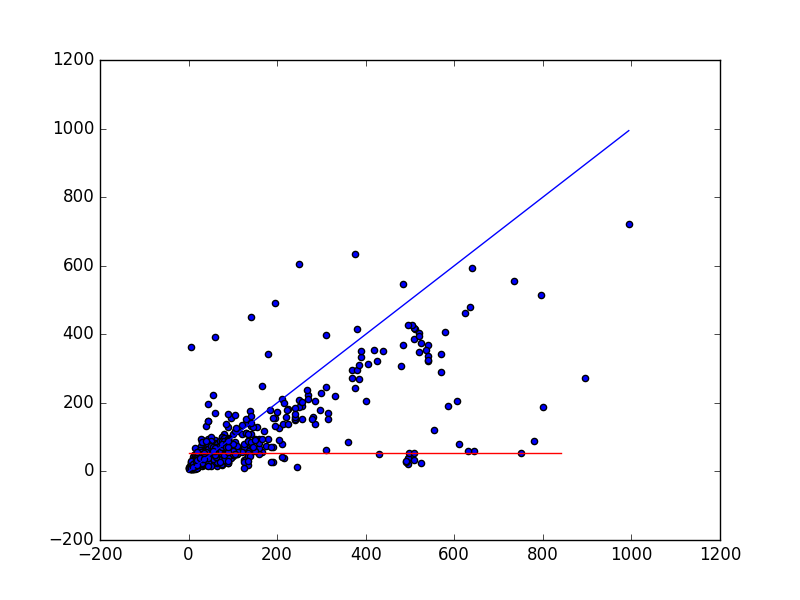
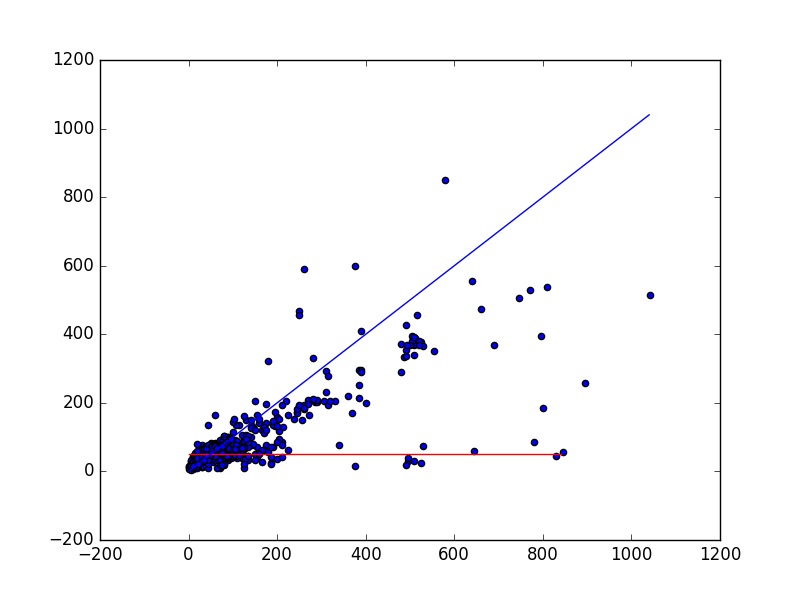
validation and smoothing

diff --git a/model.py b/model.py
@@ -1,5 +1,5 @@
 from sklearn.tree import DecisionTreeRegressor
-from sklearn import svm 
+from sklearn import svm
 from sklearn.neighbors import KNeighborsRegressor
 from sklearn.gaussian_process import GaussianProcessRegressor
 import sys
@@ -15,7 +15,7 @@ import code #DEBUG code.interact(local=locals())
 import math
 
 def get_accuracy(y_test, y_pred):
-	
+
 	diff = np.absolute(np.subtract(y_test, y_pred))
 	percentage = np.divide(diff, y_test)
 
@@ -29,7 +29,7 @@ def get_accuracy(y_test, y_pred):
 
 	return np.average(percentage) * 100
 
-def train_random_forest(train_x, train_y, m, n_clf=10):
+def train_random_forest(train_x, train_y, m, n_clf=1):
 	"""
 	Returns accuracy on the test set test_x with corresponding labels test_y
 	using a random forest classifier with n_clf decision trees trained with
@@ -71,13 +71,14 @@ def test_random_forest(test_x, y_true, forest):
 
 	n_test, d_test = test_x.shape
 	n_clf = len(forest)
+
 	forest_pred = np.zeros((n_clf, n_test))
 
 	for j in range(n_clf):
 		pred = forest[j].predict(test_x)
 		forest_pred[j] = pred
 
-	y_pred = np.average(np.transpose(forest_pred), axis=1)
+	y_pred = np.ceil(np.average(np.transpose(forest_pred), axis=1))
 
 	return get_accuracy(y_true, y_pred)
 
@@ -103,39 +104,57 @@ def main():
 		if times[recipeID] > 24*60: del times[recipeID]
 
 
-	x, y = extract_features.generate_features(imperatives, ingredients, times, num_instructions, num_ingredients, instruction_times)
+	x, y, ids = extract_features.generate_features(imperatives, ingredients, times, num_instructions, num_ingredients, instruction_times)
 	s = np.arange(len(x))
+	np.random.shuffle(s)
 	x = x[s]
 	y = y[s]
+	ids = ids[s]
 
 	m = 200
 	#f_range = (np.arange(10)+1)*5
 	#f_range = np.power((np.arange(10)+1), math.e).astype(int)
-	f = 10
-	c_range = [0.001, 0.01, 0.1, 1, 10, 100, 1000] #C = 100 / 1000
-	n_n_range = [3, 6, 9, 12, 15, 18, 21] 
-	alpha_range = [1e-12, 1e-11, 1e-10, 1e-9, 1e-8]
+	f = 3
+	#c_range = [0.001, 0.01, 0.1, 1, 10, 100, 1000] #C = 100 / 1000
+	#n_n_range = [3, 6, 9, 12, 15, 18, 21]
+	#alpha_range = [1e-12, 1e-11, 1e-10, 1e-9, 1e-8]
 
 	train_split = int(len(x))/10*7
 	train_x, train_y = x[:train_split], y[:train_split]
 	test_x, test_y = x[train_split:], y[train_split:]
+	train_ids, test_ids = ids[train_split:], ids[train_split:]
 	baseline(train_y)
 
 	c = 100
-	forest = train_random_forest(train_x, train_y, c, f)
-	accuracy = test_random_forest(test_x, test_y, forest)
-	print(accuracy)
+	best_forest = []
+	best_accuracy = 0
+
+	k = int(math.ceil(train_split/5.0))
+	train_x_folds = [train_x[1:k], train_x[k:2*k], train_x[2*k:3*k], train_x[3*k:4*k], train_x[4*k:]]
+	train_y_folds = [train_y[1:k], train_y[k:2*k], train_y[2*k:3*k], train_y[3*k:4*k], train_y[4*k:]]
+
+	for fold in range(5):
+		train_x_current = [train_x[0]]
+		train_y_current = [train_y[0]]
+
+		for i in range(5):
+			if fold != i:
+				train_x_current = np.concatenate((train_x_current, train_x_folds[i]))
+				train_y_current = np.concatenate((train_y_current, train_y_folds[i]))
+
+		forest = train_random_forest(train_x_current, train_y_current, c, f)
+		accuracy = test_random_forest(train_x_folds[fold], train_y_folds[fold], forest)
+		print("FOLD # " + str(fold+1) + " " + str(accuracy))
+
+		if accuracy > best_accuracy:
+			best_accuracy = accuracy
+			best_forest = forest
+
+	final_acc = test_random_forest(test_x, test_y, best_forest)
+	print("TEST: " + str(final_acc))
+
 	#print("C = {0}: {1}".format(alpha, np.average(acc)))
 
 
 if __name__ == '__main__':
 	main()
-
-'''
-SVM
-SGD
-NeaNei
-Gauss
-
-Voting
-'''

diff --git a/extract_features.py b/extract_features.py
@@ -3,6 +3,8 @@ import numpy as np
 from sets import Set
 import code #DEBUG code.interact(local=locals())
 
+stop_words = []
+
 def create_feature(ids, parse_tree):
 	'''
 		INPUT:
@@ -12,15 +14,16 @@ def create_feature(ids, parse_tree):
 	unique_items = []
 	for ID in ids:
 		for item in parse_tree[ID].keys():
-			if item not in unique_items:
+			if item not in unique_items && not in stop_words:
 				unique_items.append(item)
 	#print(unique_items)
 
 	fv = np.zeros((len(ids), len(unique_items)))
 	for i, ID in enumerate(ids):
 		for item in parse_tree[ID].keys():
-			j = unique_items.index(item)
-			fv[i][j] = parse_tree[ID][item]
+			if item not in stop_words:
+				j = unique_items.index(item)
+				fv[i][j] = parse_tree[ID][item]
 
 	return fv
 
@@ -46,6 +49,12 @@ def generate_features(imperatives, ingredients, times, num_instructions, num_ing
 	f4 = f4.reshape(f4.shape[0], 1)
 	f5 = create_feature(ids, instruction_time)
 	x = np.concatenate((f1, f2, f3, f4, f5), axis=1)
+
+	#smoothing
+	x = np.multiply(np.divide(x, 100), 98)
+	x_mask = np.multiply((x < 0.1).astype(int), .02)
+	x = np.add(x, x_mask)
+
 	y = create_time_feature(ids, times)
 
-	return x, y
+	return x, y, np.array(ids)

diff --git a/get_recipe_information.py b/get_recipe_information.py
@@ -39,7 +39,7 @@ class Recipe:
 
 def main():
     
-    i = '75'
+    i = '51'
     jsonDir = sys.argv[1]
     #for filename in os.listdir(jsonDir):
     filename = 'links_{}'.format(i)
